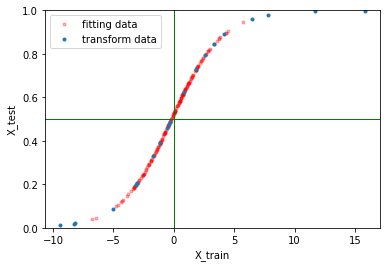
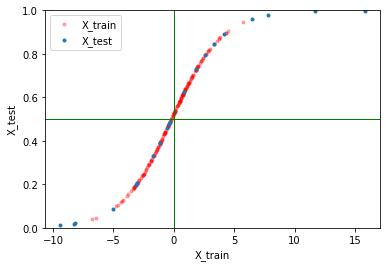
transformer with explanation

Changed region(s): [[0.1231, 0.03, 0.4, 0.2097]]

diff --git a/sklearn-transformer.rst b/sklearn-transformer.rst
@@ -1,0 +1,175 @@
+------------------------------------------------
+How to build your own sklearn transformer
+------------------------------------------------
+
+
+The goal is to demostrate how to implement a sklearn transformer class, and your own Pipeline and FeatureUnion class to combine multiple transformers.
+
+
+Understand the base class
+==========================
+    sklearn has the base classes ``BaseEstimator`` and ``TransformerMixin`` for this purpose. ``BaseEstimator`` provides two methods ``get_params()`` and ``set_params()``. They are used to do hyperparameter optimization. Take a look at the methods first.
+
+    .. code-block:: python
+
+        @classmethod
+        def _get_param_names(cls):
+            init = getattr(cls.__init__, 'deprecated_original', cls.__init__)
+            if init is object.__init__:
+                return []
+            
+            init_signature = signature(init)
+            parameters = [p for p in init_signature.parameters.values()
+                            if p.name != 'self' and p.kind != p.VAR_KEYWORD]
+
+            ## and more things
+            ## and more things
+
+        def get_params(self, deep=True):
+            out = dict()
+            for key in self._get_param_names():
+                value = getattr(self, key, None)
+                if deep and hasattr(value, 'get_params'):
+                    deep_items = value.get_params().items()
+                    out.update((key + '__' + k, val) for k, val in deep_items)
+                out[key] = value 
+            return out 
+
+
+    There are few things to mention about the above code: 
+
+    1. ``get_params()`` calls a hidden class method ``_get_param_names()`` to retrieve the keyword parameters **explicitly** defined on class ``__init__`` method. *\*\*kwargs* is invalid. The ``signature()`` function in ``.utils.fixes`` module is a wrapper to present uniform interface for different versions of Python. For version 2 it calls ``inspect.getargspec`` method and for Python 3 it calls ``funcsigs.signature`` method to retrieve the ``cls.__init__`` signature in sklearn version 0.18. In 0.16 only ``inspect.getargspec`` was used (it is getting depcrecated in Python 3.6). To define a transformer with hyperparameters, we need to explicitly define those hyperparameter as keyward arguments in the ``__init__`` method.  
+
+    2. ``get_params(deep=True)`` has deep flag default to ``True``. It recursively search down parameters that are also BaseEstimators, until reaching the level with flag set to ``False`` or to the level of ``object``.
+
+    3. When it retrieves deep parameters, double underscore '__' is used to for the namespace for deep parameters. ``set_prams()`` method uses the same rule to parse the parameter names to set the values recursively.
+
+    4. Worth paying attention that ``setattr`` calls ``self.__setattr__`` to set attributes. So do not mess up with ``__setattr__``, especially not to call ``setattr`` in ``self.__setattr__``.
+
+    5. We do not have to do anything with these methods. 
+
+    Now let's take a look at ``TransformerMixin`` 
+
+    .. code-block:: python
+
+        class TransformerMixin(object):
+            def fit_transform(self, X, y=None, **fit_parameters):
+                '''
+                Parameters
+                ----------
+                X : numpy array of shape [n_samples, n_features]
+                    Training set.
+                y : numpy array of shape [n_samples]
+                    Target values.
+                '''
+                if y is None:
+                    return self.fit(X, **fit_parameters).transform(X)
+                else:
+                    return self.fit(X, y, **fit_parameters).transform(X)
+
+
+    A few things to notice
+
+    1. ``fit()`` and ``transform()`` were not defined as ``abstract`` methods, but implicitly it requires the implementation of these methods.
+
+    2. The ``y`` numpy array shape instruction is not always very accurate here. Better and safer to always have 2D ``y``, using ``y.reshape(-1,1)``.
+
+    3. ``y`` is **required**. Even you can override ``fit_transform`` not to take ``y``, other methods may assume there is a ``y`` parameter at its position. To be compatable with the system, set ``y=None``.
+
+    4. Notice there are some ``fit`` methods has ``y`` as parameter, while others not. Legacy issues. 
+
+
+Build a ``sigmoid`` transformer
+=================================
+
+Let's build a transformer that normalizes data using a *logistic* function. As preprocessing, normalization brings much benefit such as unified inputs, data bias and variation removal, high computational efficiency and search time, more robust optimization and less numerical error, *et.*.  As an alternative to ``minmax``, ``standardization`` and other normalization methods, ``sigmoid`` function combines linear and non-linear transformation. It maintains good linearity for majority of the data close to center. And for extreme values (outliers) it reduces the the values exponentially and keeps the sample ordinal information. 
+
+We will also set two parameters ``bias`` and ``scale`` as a population correction mechanism in case there is a populaton shift. 
+
+Note if the parameter list is too long (or you being too lazy), you can use the ``inspect.signature`` to automate initialization. It probably is an overkill here.
+
+.. code-block:: python
+
+    from sklearn.base import BaseEstimator, TransformerMixin
+    import inspect 
+    import numpy as np 
+    import matplotlib.pyplot as plt 
+
+    def sigmo(m, sig):
+        def f(x):
+            return 1.0/(1.0 + np.exp(-(x-m)/sig))
+        return f 
+
+    class Sig_trans(BaseEstimator, TransformerMixin):
+        def __init__(self, bias=0, scale=1.0):
+            ## this is an over kill for these two parameters, we can just do
+            # self.bias = bias
+            # self.scale = scale
+            z = [p.name for p in inspect.signature(self.__init__).parameters.values()]
+            l = locals()
+            for k in z:
+                setattr(self, k, l[k])
+
+        def _fit(self, X, y=None):
+            self.mean = X.mean()
+            self.std = X.std()
+            self.sigmoid = sigmo(self.mean, self.std)
+
+        def fit(self, X, y=None):
+            self._fit(X)
+            return self 
+
+        def transform(self, X):
+            if not hasattr(self, 'sigmoid'):
+                raise AttributeError('Fit the transformer first')
+            return self.sigmoid(X)
+
+    if __name__ == '__main__':
+        X_train =  np.random.normal(0, 2.0, (200, 1))
+        X_test = np.random.normal(0, 5.0, (20, 1))
+
+        T = Sig_trans()
+        X_train_p = T.fit_transform(X_train)
+        X_test_p = T.transform(X_test)
+
+        fig = plt.figure()
+        plt.plot(x, xp, 'r.', label='fitting data', alpha=0.3)
+        plt.plot(y, yp, '.', label='transform data')
+
+        plt.legend()
+        plt.xlabel('X_train')
+        plt.ylabel('X_test')
+        plt.ylim(0,1)
+        xlim = plt.xlim()
+        plt.plot(xlim, [0.5, 0.5], '-g', linewidth=1)
+        plt.plot([0,0],[0,1], '-g', linewidth=1)
+        plt.xlim(xlim)
+        plt.show()  
+
+
+As the result, this is what we should see.
+
+.. image:: ./media/transform.png
+    :width: 400px
+
+Notice for extremely high values in ``X_test`` the output are close to 1. However there are still difference to keep the ordinal information here. No saturation is introduced.
+
+
+
+Use the logistic transformer in Pipeline and hyperparameter optimization
+=========================================================================
+
+
+
+A combo transformer example
+=========================================================================
+
+
+
+
+        
+
+
+
+
+
